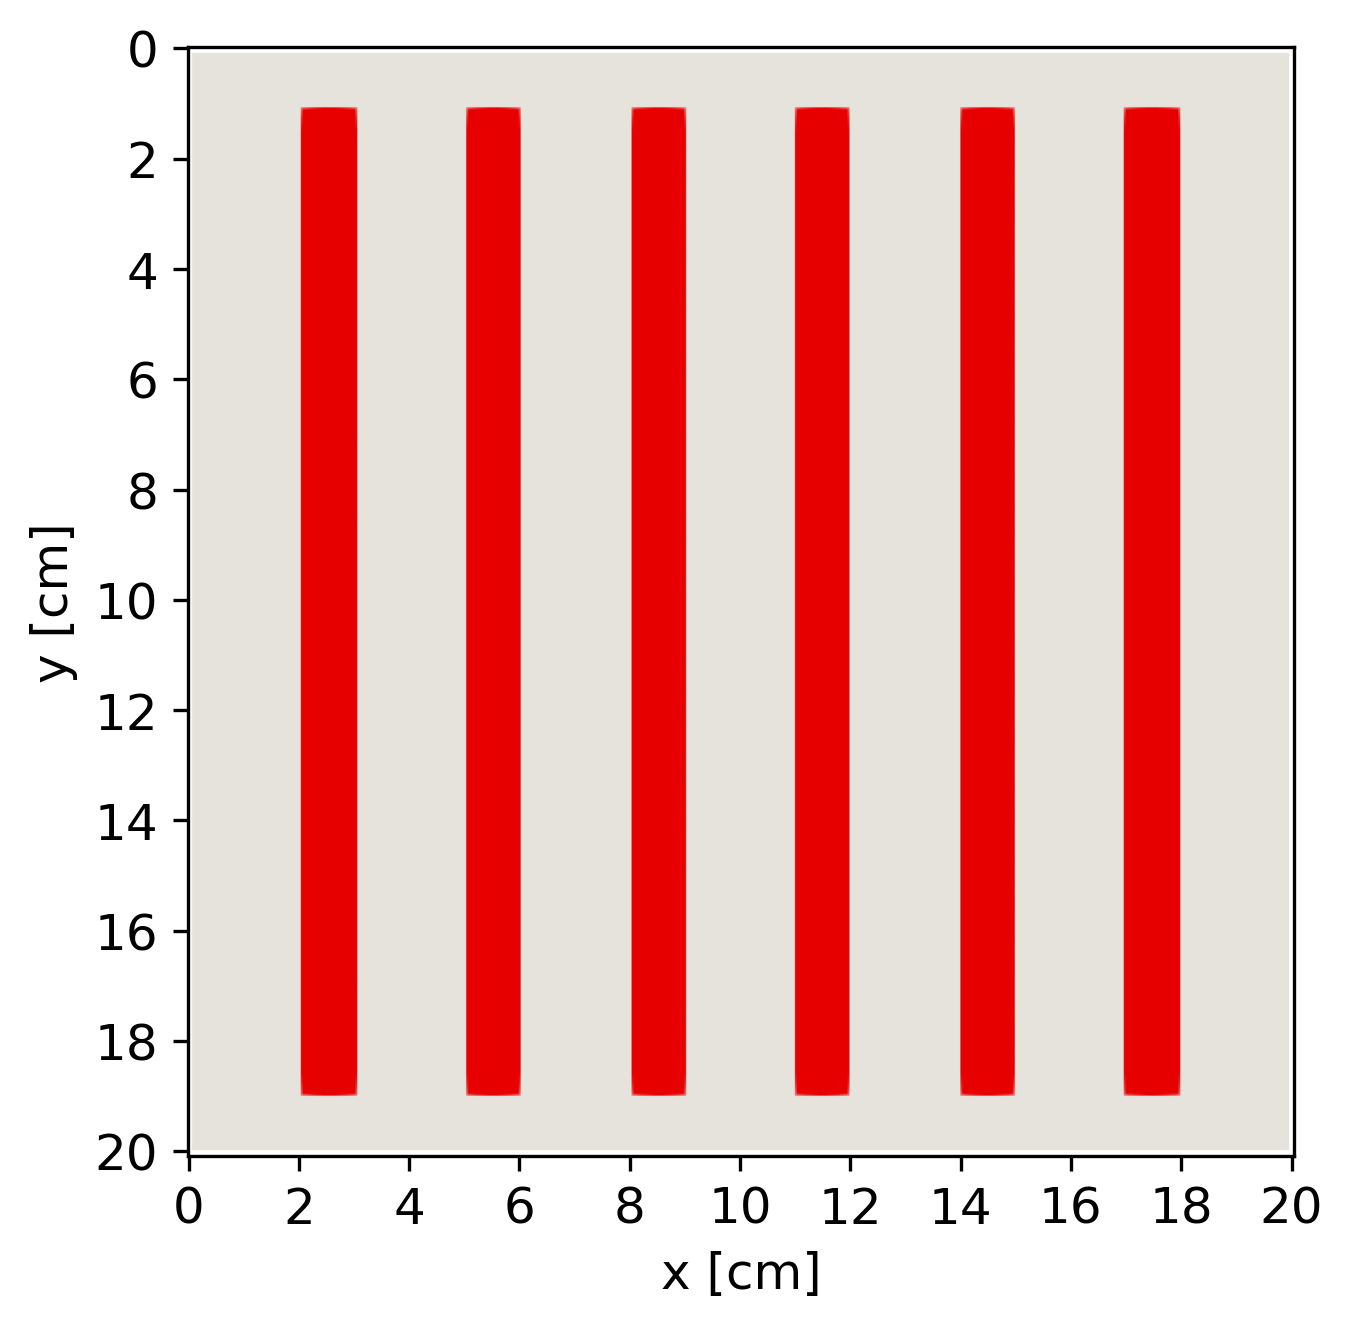
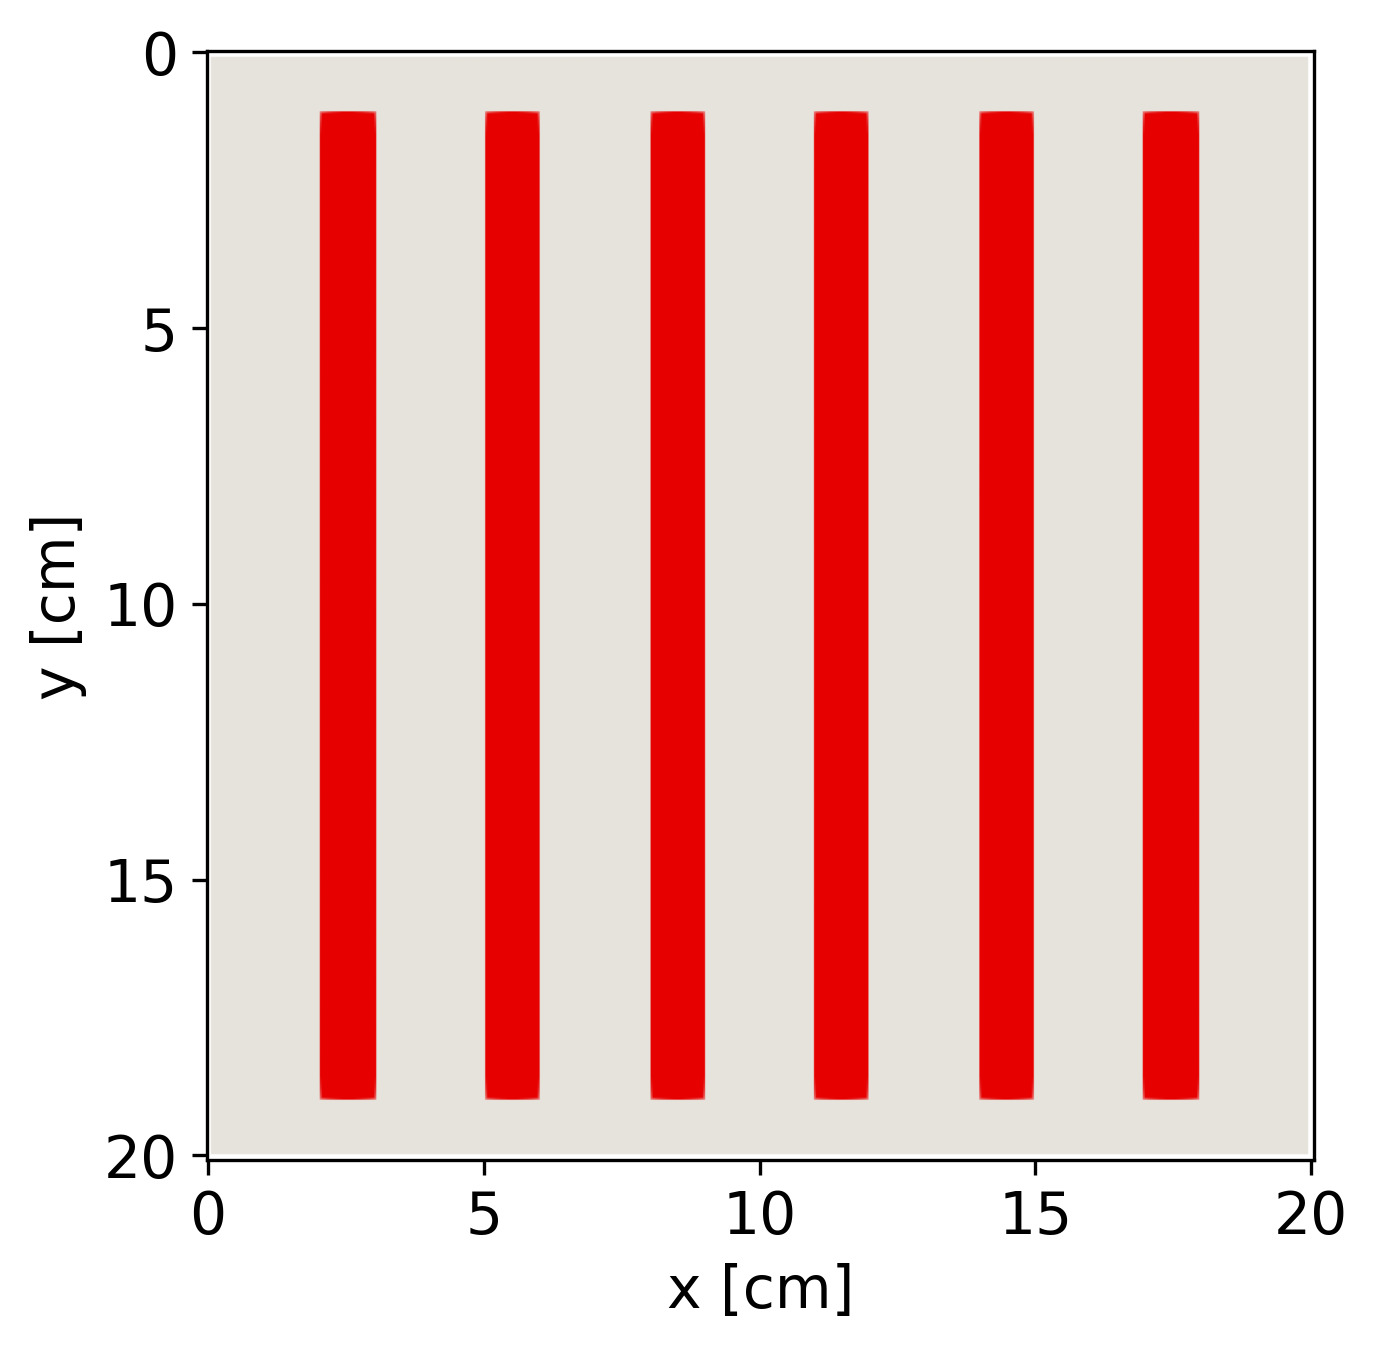
working on the formatting

Changed region(s): [[0.0, 0.0, 0.9933, 0.988], [0.4656, 0.9571, 0.4967, 0.988]]

diff --git a/summary-ans-annual-2021/summary.tex b/summary-ans-annual-2021/summary.tex
@@ -105,20 +105,20 @@ Modeling these characteristics using the diffusion approximation may be challeng
 % lit - review: software using the SPN approximation
 The SP$_3$ approximation gained usage throughout the last couple of decades and currently, different software uses it to solve the neutron transport equation.
 % Some of those software are SCOPE2 \cite{tatsumi_object-oriented_2002}, PARCS \cite{downar_parcs_2004}, DYN3D \cite{beckert_development_2007}, SIMULATE-5 \cite{bahadir_studsviks_2009}, and COCAGNE \cite{fliscounakis_potential_2012}.
-Some of those software are PARCS \cite{downar_parcs_2004}, DYN3D \cite{beckert_development_2007}, and COCAGNE \cite{fliscounakis_potential_2012}.
+Some of those software are PARCS \cite{downar_parcs_2004} and DYN3D \cite{beckert_development_2007}.
 
 \section{Methodology}
 
 This section describes the methodology followed for solving the equations.
 % Equations P3
 Davidson \cite{davidson_neutron_1957} defined the one-dimensional multi-group P$_N$ equations.
-In the steady state, and for $N=3$, the equations become
+In the steady state, for $N=3$, and a negligible fixed source, the equations become
 
 \begin{align}
-    & \frac{d}{dx} \phi_{1,g} + \Sigma_{t,g} \phi_{0,g} = \sum_{g'=1}^G \Sigma_{s0,g' \rightarrow g} \phi_{0,g'} + \frac{\chi_g}{k_{eff}} \sum_{g'=1}^G \nu\Sigma_{f,g'} \phi_{0,g'} \notag \\ & \quad \quad \quad \quad \quad \quad \quad + Q_{0,g}  \label{eq:P3-0} \\
-    & \frac{1}{3} \frac{d}{dx} \phi_{0,g} + \frac{2}{3}\frac{d}{dx}\phi_{2,g} + \Sigma_{t,g} \phi_{1,g} = \sum_{g'=1}^G \Sigma_{s1,g' \rightarrow g} \phi_{1,g'} + Q_{1,g} \label{eq:P3-1} \\
-    & \frac{2}{5} \frac{d}{dx}\phi_{1,g} + \frac{3}{5}\frac{d}{dx}\phi_{3,g} + \Sigma_{t,g} \phi_{2,g} = \sum_{g'=1}^G \Sigma_{s2,g' \rightarrow g} \phi_{2,g'} + Q_{2,g} \label{eq:P3-2} \\
-    & \frac{3}{7}\frac{d}{dx}\phi_{2,g} + \Sigma_{t,g} \phi_{3,g} = \sum_{g'=1}^G \Sigma_{s3,g' \rightarrow g} \phi_{3,g'} + Q_{3,g} \label{eq:P3-3} \\
+    & \frac{d}{dx} \phi_{1,g} + \Sigma_{t,g} \phi_{0,g} = \sum_{g'=1}^G \Sigma_{s0,g' \rightarrow g} \phi_{0,g'} + \frac{\chi_g}{k_{eff}} \sum_{g'=1}^G \nu\Sigma_{f,g'} \phi_{0,g'} \label{eq:P3-0} \\
+    & \frac{1}{3} \frac{d}{dx} \phi_{0,g} + \frac{2}{3}\frac{d}{dx}\phi_{2,g} + \Sigma_{t,g} \phi_{1,g} = \sum_{g'=1}^G \Sigma_{s1,g' \rightarrow g} \phi_{1,g'} \label{eq:P3-1} \\
+    & \frac{2}{5} \frac{d}{dx}\phi_{1,g} + \frac{3}{5}\frac{d}{dx}\phi_{3,g} + \Sigma_{t,g} \phi_{2,g} = \sum_{g'=1}^G \Sigma_{s2,g' \rightarrow g} \phi_{2,g'} \label{eq:P3-2} \\
+    & \frac{3}{7}\frac{d}{dx}\phi_{2,g} + \Sigma_{t,g} \phi_{3,g} = \sum_{g'=1}^G \Sigma_{s3,g' \rightarrow g} \phi_{3,g'} \label{eq:P3-3} \\
     \intertext{where}
     & \phi_{n,g} = \mbox{$n^{th}$ moment of group $g$ neutron flux}  \notag \\ %  } [n \cdot cm^{-2} \cdot s^{-1}]
     & \Sigma_{t,g} = \mbox{group $g$ macroscopic total cross-section}  \notag \\ %  } [cm^{-1}]
@@ -127,13 +127,11 @@ In the steady state, and for $N=3$, the equations become
 	& \nu\Sigma_{f,g} = \mbox{group $g$ macroscopic production cross-section}  \notag \\ %  } [cm^{-1}]
 	& \chi_{g} = \mbox{group $g$ fission spectrum}  \notag \\ %  } [cm^{-1}]
 	& k_{eff} = \mbox{eigenvalue}  \notag \\ %  } [-]
-	& Q_{n,g} = \mbox{$n^{th}$ moment of group $g$ external neutron source}  \notag \\  % } [n \cdot cm^{-3} \cdot s^{-1}]
 	& G = \mbox{number of energy groups}.  \notag % } [-]
 \end{align}
 
-Assuming an isotropic external source and negligible anisotropic group-to-group scattering \cite{brantley_simplifiedP3_2000}
+Assuming a negligible anisotropic group-to-group scattering \cite{brantley_simplifiedP3_2000}
 \begin{align}
-	& Q_{n,g} = 0, \quad n > 0 \notag \\
 	& \Sigma_{sn,g' \rightarrow g} = 0, \quad g' \ne g, \quad n > 0 \notag
 \end{align}
 
@@ -153,7 +151,7 @@ Introducing the variables $\Phi_{0,g}$ and $\Phi_{2,g}$, reorganizing the equati
     & D_{0,g} = \frac{1}{3 \Sigma_{1,g}} \label{eq:diff-rem} \\
     & D_{2,g} = \frac{9}{35 \Sigma_{3,g}} \notag \\
     & S_{0,g} = \sum_{g'\ne g}^G \Sigma_{s0,g' \rightarrow g} \left( \Phi_{0,g'} - 2 \Phi_{2,g'} \right) \notag \\
-    & \quad \quad + \frac{\chi_g}{k_{eff}} \sum_{g'=1}^G \nu\Sigma_{f,g'} \left( \Phi_{0,g'} - 2 \Phi_{2,g'} \right) + Q_{0,g}. \notag
+    & \quad \quad + \frac{\chi_g}{k_{eff}} \sum_{g'=1}^G \nu\Sigma_{f,g'} \left( \Phi_{0,g'} - 2 \Phi_{2,g'} \right). \notag
 \end{align}
 
 % BCs
@@ -180,14 +178,18 @@ The following sections discuss the results of a one group exercise presented in 
 
 This section describes a one group, isotropic-scattering eigenvalue problem introduced by Brantley and Larsen \cite{brantley_simplifiedP3_2000}.
 This section also presents the eigenvalue obtained with Cerberus and compares it against the reference value.
-Figure \ref{fig:2D} shows the problem's geometry, and Table \ref{tab:cross-sections} specifies its cross-sections.
+% Figure \ref{fig:2D} shows the problem's geometry, and Table \ref{tab:cross-sections} specifies its cross-sections.
+Figure \ref{fig:2D} shows the problem's geometry.
+The fuel plates have a 1 cm-thickness, and the distance among them is 2 cm.
 Due to the problem's symmetry, the model included only a quarter of the core.
 Using the \textit{Gmsh} \cite{geuzaine_gmsh_2009} meshing tool, we created the mesh, which had $6 \times 10^{3}$ elements.
+The problem cross-sections can be found in \cite{brantley_simplifiedP3_2000}.
 The simulation convergence criterion was $10^{-8}$ for the neutron flux.
+Table \ref{tab:keff-1st} compares the eigenvalue obtained with Cerberus and the reference value from Brantley and Larsen \cite{brantley_simplifiedP3_2000}.
 
-\begin{figure}[H] %or H 
+\begin{figure}[htbp!] %or H 
     \centering
-    \includegraphics[width=0.75\linewidth]{figures/mesh2.png}
+    \includegraphics[width=0.7\linewidth]{figures/mesh2.png}
     \hfill
     \caption{Geometry of the one group eigenvalue problem. Fuel in red. Moderator in gray.}
     \label{fig:2D}
@@ -195,29 +197,29 @@ The simulation convergence criterion was $10^{-8}$ for the neutron flux.
 
 % \usepackage{booktabs}
 % \begin{table}[htbp!]
-\begin{table}[h]
-	\centering
-	\caption{Cross-sections of the one group eigenvalue problem \cite{brantley_simplifiedP3_2000}. Values expressed in $cm^{-1}$.}
-	\label{tab:cross-sections}
-	\begin{tabular}{llll}
-	\toprule
-	Material	& $\Sigma_t$ & $\Sigma_{s0}$ & $\nu\Sigma_f$ \\
-	\midrule
-	Moderator	& 1.00		& 0.93			& 0.00			\\
-	Fuel		& 1.50		& 1.35			& 0.24			\\
-	\bottomrule
-	\end{tabular}
-\end{table}
+% \begin{table}[h]
+% 	\centering
+% 	\caption{Cross-sections of the one group eigenvalue problem \cite{brantley_simplifiedP3_2000}. Values expressed in $cm^{-1}$.}
+% 	\label{tab:cross-sections}
+% 	\begin{tabular}{llll}
+% 	\toprule
+% 	Material	& $\Sigma_t$ & $\Sigma_{s0}$ & $\nu\Sigma_f$ \\
+% 	\midrule
+% 	Moderator	& 1.00		& 0.93			& 0.00			\\
+% 	Fuel		& 1.50		& 1.35			& 0.24			\\
+% 	\bottomrule
+% 	\end{tabular}
+% \end{table}
 
-Table \ref{tab:keff-1st} compares the eigenvalue obtained with the SP$_3$ solver and the reference value \cite{brantley_simplifiedP3_2000} using the equation
-\begin{align}
-  % & \Delta_\rho = \left| \rho_{SP_3} - \rho_{Ref} \right| = \left| \frac{k_{SP_3}-1}{k_{SP_3}} - \frac{k_{Ref}-1}{k_{Ref}} \right| = \left| \frac{k_{SP_3}-k_{Ref}}{k_{SP_3} k_{Ref}} \right| \label{eq:delta-rho} \\
-  & \Delta_\rho = \left| \frac{k_{SP_3}-k_{Ref}}{k_{SP_3} k_{Ref}} \right| \label{eq:delta-rho} \\
-  \intertext{where}
-  & \Delta_\rho = \mbox{reactivity difference } [pcm] \notag \\
-  & k_{SP_3} = \mbox{eigenvalue obtained with Cerberus} \notag \\
-  & k_{Ref} = \mbox{reference eigenvalue.} \notag
-\end{align}
+% Table \ref{tab:keff-1st} compares the eigenvalue obtained with the SP$_3$ solver and the reference value from Brantley and Larsen \cite{brantley_simplifiedP3_2000} using the equation
+% \begin{align}
+%   % & \Delta_\rho = \left| \rho_{SP_3} - \rho_{Ref} \right| = \left| \frac{k_{SP_3}-1}{k_{SP_3}} - \frac{k_{Ref}-1}{k_{Ref}} \right| = \left| \frac{k_{SP_3}-k_{Ref}}{k_{SP_3} k_{Ref}} \right| \label{eq:delta-rho} \\
+%   & \Delta_\rho = \left| \frac{k_{SP_3}-k_{Ref}}{k_{SP_3} k_{Ref}} \right| \label{eq:delta-rho} \\
+%   \intertext{where}
+%   & \Delta_\rho = \mbox{reactivity difference } [pcm] \notag \\
+%   & k_{SP_3} = \mbox{eigenvalue obtained with Cerberus} \notag \\
+%   & k_{Ref} = \mbox{reference eigenvalue.} \notag
+% \end{align}
 
 \begin{table}[htbp!]
 	\centering
@@ -242,15 +244,16 @@ This section describes the benchmark exercise and presents Cerberus results.
 
 % benchmark specification
 Two types of fuel assembly (MOX and UO$_2$) and a reflector comprise the core, shown in Figure \ref{fig:bench1}.
+Due to the problem's symmetry, the model included only a quarter of the core.
 Each fuel assembly consists of a 17 $\times$ 17 array of squared pin cells, as displayed in Figures \ref{fig:bench2} and \ref{fig:bench3}.
-The dimensions of each pin cell are 1.26 $\times$ 1.26 cm, being 21.42 $\times$ 21.42 cm the dimensions of each assembly, and 128.52 $\times$ 128.52 cm of the whole core.
+The dimensions of each pin cell are 1.26 $\times$ 1.26 cm, being 21.42 $\times$ 21.42 cm the dimensions of each assembly.
 The benchmark \cite{cavarec_benchmark_1994} specifies the cross-sections, which have a two-energy group structure.
 
 \begin{figure}[htbp!] %or H 
     \centering
-    \includegraphics[width=0.85\linewidth]{figures/geo-xy2.png}
+    \includegraphics[width=0.7\linewidth]{figures/geo-xy2.png}
     \hfill
-    \caption{C5 MOX benchmark configuration. UO$_2$ in gray. MOX in red. Reflector in green.}
+    \caption{C5 MOX Benchmark configuration. UO$_2$ in gray. MOX in red. Reflector in green.}
     \label{fig:bench1}
 \end{figure}
 
@@ -282,7 +285,6 @@ When no anisotropic component of the scattering cross-section is available, the 
 \end{figure}
 
 For the sake of comparison, we conducted the exercise with and without the transport correction for calculating $D_{0,g}$ with equations \ref{eq:diff-tr} and \ref{eq:diff-rem}, respectively.
-Due to the problem's symmetry, the model included only a quarter of the core.
 The mesh had $2.4 \times 10^{4}$ elements.
 The simulation convergence criterion was $10^{-8}$ for the neutron flux.
 
@@ -324,6 +326,7 @@ For conciseness, we only calculated the power distribution using the transport c
     \label{fig:power-pbp}
 \end{figure}
 
+
 % Comparison w/ Moltres, keff and neutron flux
 % \subsection{Comparison to Diffusion solver}
 
@@ -349,14 +352,13 @@ For conciseness, we only calculated the power distribution using the transport c
 % \end{figure}
 
 
-
 \section{C5G2 3D Benchmark}
 
 % intro: exercise description
-\cite{lewis_benchmark_2001}
-
-\cite{ryu_finite_2013}
-
+As mentioned earlier, the open literature describes different versions of the C5 MOX benchmark.
+% Lewis et al. \cite{lewis_benchmark_2001} defined a C5 MOX Benchmark with a three-dimensional geometry defining seven-energy group cross-sections.
+Ryu et al. \cite{ryu_finite_2013} defined a 3D mini-core variation of the C5 MOX Benchmark with spatial homogenization of the fuel assemblies.
+This section uses their results as a reference.
 
 % geometry description
 The radial layout of the core is shown in Figure \ref{fig:bench1}.
@@ -364,9 +366,9 @@ Figure \ref{fig:c5g2-3d} displays the axial layout of the core and its dimension
 
 \begin{figure}[h] %or H 
     \centering
-    \includegraphics[width=0.85\linewidth]{figures/geo-xz2.png}
+    \includegraphics[width=0.65\linewidth]{figures/geo-xz2.png}
     \hfill
-    \caption{.}
+    \caption{Axial layout of the C5G2 3D Benchmark.}
     \label{fig:c5g2-3d}
 \end{figure}
 
@@ -375,6 +377,8 @@ Ryu et al. calculated and presented the two-group assembly homogenized cross-sec
 Because the data was missing the self-scattering cross-sections, we calculated it by volume averaging the cross-sections from the C5G2 2D Benchmark \cite{cavarec_benchmark_1994}.
 
 % Results comparison
+The mesh had $1.1 \times 10^{5}$ elements.
+The simulation convergence criterion was $10^{-8}$ for the neutron flux.
 Table \ref{tab:keff-4th} compares the eigenvalue obtained with Cerberus to the reference value presented in \cite{ryu_finite_2013}.
 
 \begin{table}[htbp!]
@@ -402,6 +406,7 @@ The results of the power distribution are within 1\% difference.
     \caption{Power distribution in the C5G2 3D Benchmark. Top: power distribution. Bottom: relative difference to reference values expressed in \%.}
     \label{fig:c5g2-3d-power}
 \end{figure}
+
 
 \section{Conclusions}
 

diff --git a/brantley-larsen-2d/postprocessing.py b/brantley-larsen-2d/postprocessing.py
@@ -25,20 +25,20 @@ def add_legend():
     scalex = xlength/567
     ticks_x = ticker.FuncFormatter(lambda x, pos: '{0:g}'.format(x*scalex))
     ax.xaxis.set_major_formatter(ticks_x)
-    xticks = np.arange(0, np.floor(xlength)+1, 2)/scalex
+    xticks = np.arange(0, np.floor(xlength)+1, 5)/scalex
     ax.set_xticks(xticks)
-    ax.tick_params(axis="x", labelsize=12)
+    ax.tick_params(axis="x", labelsize=14)
 
     ylength = 20
     scaley = ylength/567
     ticks_y = ticker.FuncFormatter(lambda x, pos: '{0:g}'.format(x*scaley))
     ax.yaxis.set_major_formatter(ticks_y)
-    yticks = np.arange(0, np.floor(ylength)+1, 2)/scaley
+    yticks = np.arange(0, np.floor(ylength)+1, 5)/scaley
     ax.set_yticks(yticks)
-    ax.tick_params(axis="y", labelsize=12)
+    ax.tick_params(axis="y", labelsize=14)
 
-    ax.set_xlabel('x [cm]', fontsize=12)
-    ax.set_ylabel('y [cm]', fontsize=12)
+    ax.set_xlabel('x [cm]', fontsize=14)
+    ax.set_ylabel('y [cm]', fontsize=14)
     # plt.legend(handles=[matrix, block], loc="lower right",
     #            bbox_to_anchor=(1.0, 1.0),  fontsize=12)
     plt.savefig("mesh2", dpi=300, bbox_inches="tight")
